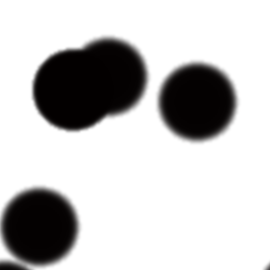
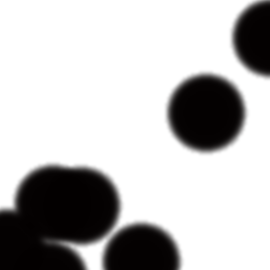
Add final comments and code cleanup

diff --git a/WalnutApp/src/WalnutApp.cpp b/WalnutApp/src/WalnutApp.cpp
@@ -16,15 +16,16 @@ class ExampleLayer : public Walnut::Layer
 public:
 	virtual void OnAttach() override 
 	{
-		//load example textures
+		//load example brush-textures
 		for (int i = 1; i <= 8; i++)
 		{
 			auto path = "example_" + std::to_string(i) + ".png";
 			textures.push_back(std::make_shared<Walnut::Image>(path));
 			cv_textures.push_back(std::make_shared<cv::Mat>(cv::imread(path, cv::IMREAD_UNCHANGED)));
 		}
+		
+		//initialize brightness values
 		texture = textures[0];
-		add = std::make_shared<Walnut::Image>("add.png");
 		cv_texture = cv_textures[0];
 		double initial = leftmost_tone_value;
 		double step = (leftmost_tone_value - rightmost_tone_value) / image_number;
@@ -33,6 +34,7 @@ public:
 			tone_values.push_back(initial);
 		}
 
+		//generate first TAM
 		std::shared_ptr<Generator> generator = std::make_shared<Generator>();
 		tam = generator->generate_TAM(image_number, resolution, tam_path, *cv_texture, size, tone_values);
 	}
@@ -143,7 +145,6 @@ public:
 private:
 	std::vector<std::shared_ptr<Walnut::Image>> textures;
 	std::shared_ptr<Walnut::Image> texture;
-	std::shared_ptr<Walnut::Image> add;
 	std::vector<std::shared_ptr<cv::Mat>> cv_textures;
 	std::shared_ptr<cv::Mat> cv_texture;
 	int image_number = 6;

diff --git a/README.md b/README.md
@@ -1,24 +1,14 @@
-# Walnut
+# Tonal Art Map Generator
+The Generator takes the approach of the hatching generator presented in the paper Praun, E., Hoppe, H., Webb, M., Finkelstein, A. (2001) and applies it to stippling.
 
-Walnut is a simple application framework built with Dear ImGui and designed to be used with Vulkan - basically this means you can seemlessly blend real-time Vulkan rendering with a great UI library to build desktop applications. The plan is to expand Walnut to include common utilities to make immediate-mode desktop apps and simple Vulkan applications.
-
-Currently supports Windows - with macOS and Linux support planned. Setup scripts support Visual Studio 2022 by default.
-
-![WalnutExample](https://hazelengine.com/images/ForestLauncherScreenshot.jpg)
-_<center>Forest Launcher - an application made with Walnut</center>_
-
-## Requirements
-- [Visual Studio 2022](https://visualstudio.com) (not strictly required, however included setup scripts only support this)
-- [Vulkan SDK](https://vulkan.lunarg.com/sdk/home#windows) (preferably a recent version)
-
-## Getting Started
-Once you've cloned, run `scripts/Setup.bat` to generate Visual Studio 2022 solution/project files. Once you've opened the solution, you can run the WalnutApp project to see a basic example (code in `WalnutApp.cpp`). I recommend modifying that WalnutApp project to create your own application, as everything should be setup and ready to go.
 
 ### 3rd party libaries
+- [Walnut](https://github.com/TheCherno/Walnut)
 - [Dear ImGui](https://github.com/ocornut/imgui)
 - [GLFW](https://github.com/glfw/glfw)
 - [stb_image](https://github.com/nothings/stb)
-- [GLM](https://github.com/g-truc/glm) (included for convenience)
+- [GLM](https://github.com/g-truc/glm)
+- [OpenCV](https://github.com/opencv/opencv) ([Apache License, Version 2.0](https://www.apache.org/licenses/LICENSE-2.0))
 
 ### Additional
-- Walnut uses the [Roboto](https://fonts.google.com/specimen/Roboto) font ([Apache License, Version 2.0](https://www.apache.org/licenses/LICENSE-2.0))
+- The Gui uses the [Roboto](https://fonts.google.com/specimen/Roboto) font ([Apache License, Version 2.0](https://www.apache.org/licenses/LICENSE-2.0))
